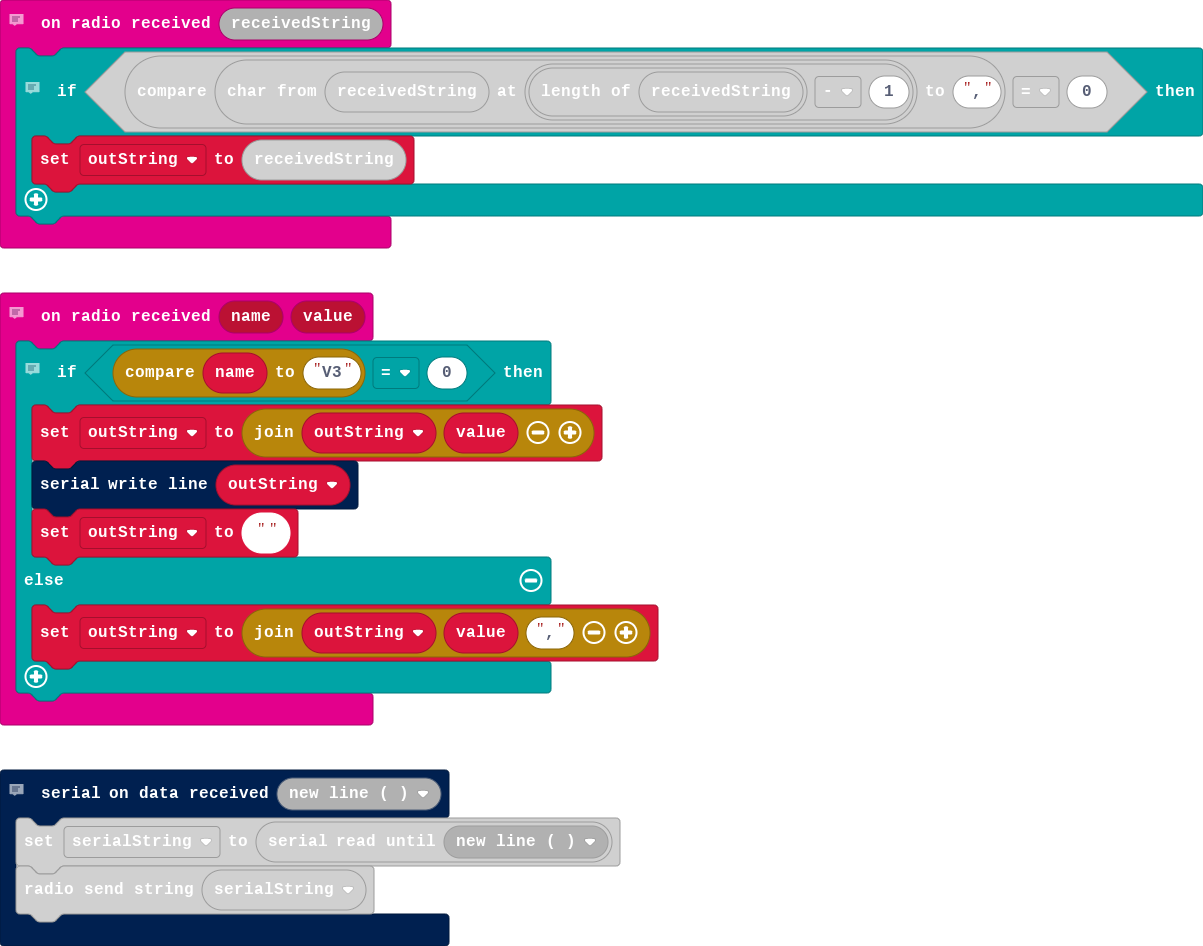
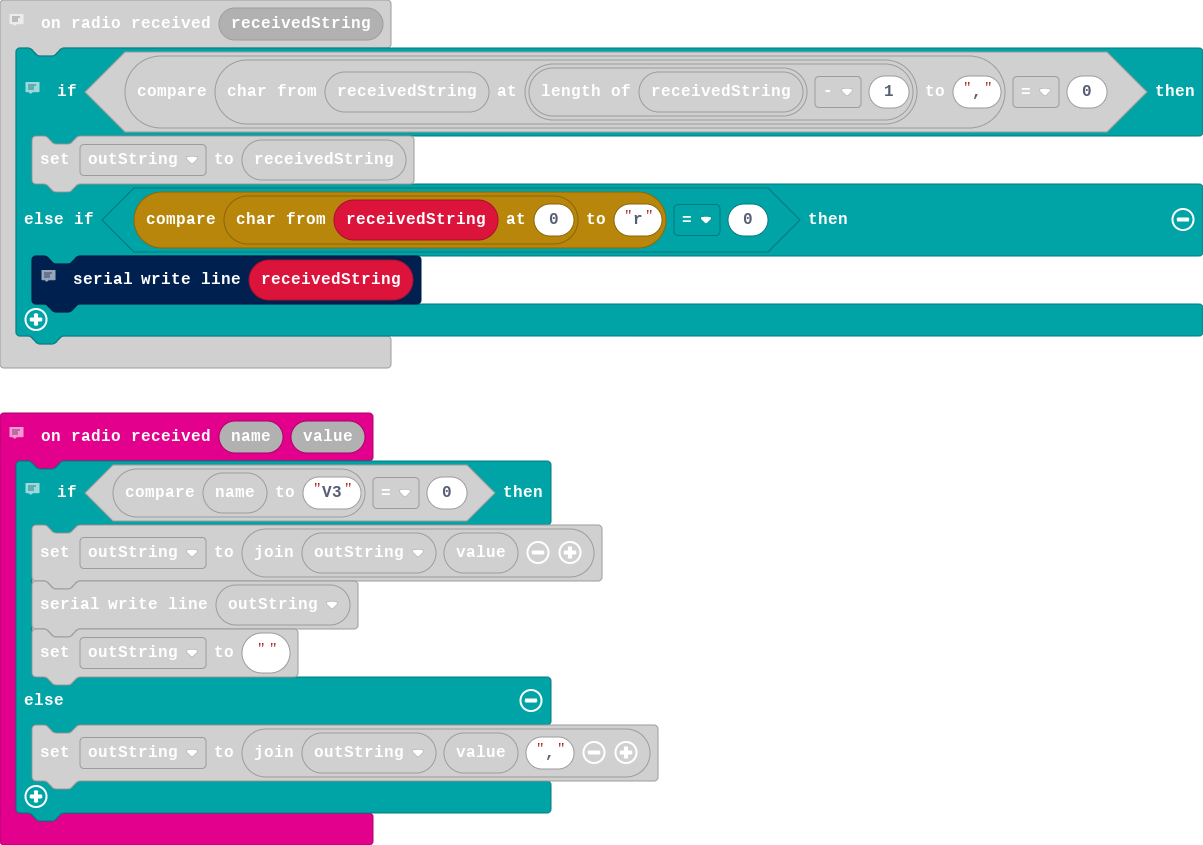
handle rt command

diff --git a/main.ts b/main.ts
@@ -3,6 +3,9 @@ radio.onReceivedString(function (receivedString) {
     // String ends in comma, so add to outString
     if (receivedString.charAt(receivedString.length - 1).compare(",") == 0) {
         outString = receivedString
+    } else if (receivedString.charAt(0).compare("r") == 0) {
+        // This is read time data string
+        serial.writeLine(receivedString)
     }
 })
 // Expect 4 name/value pairs
